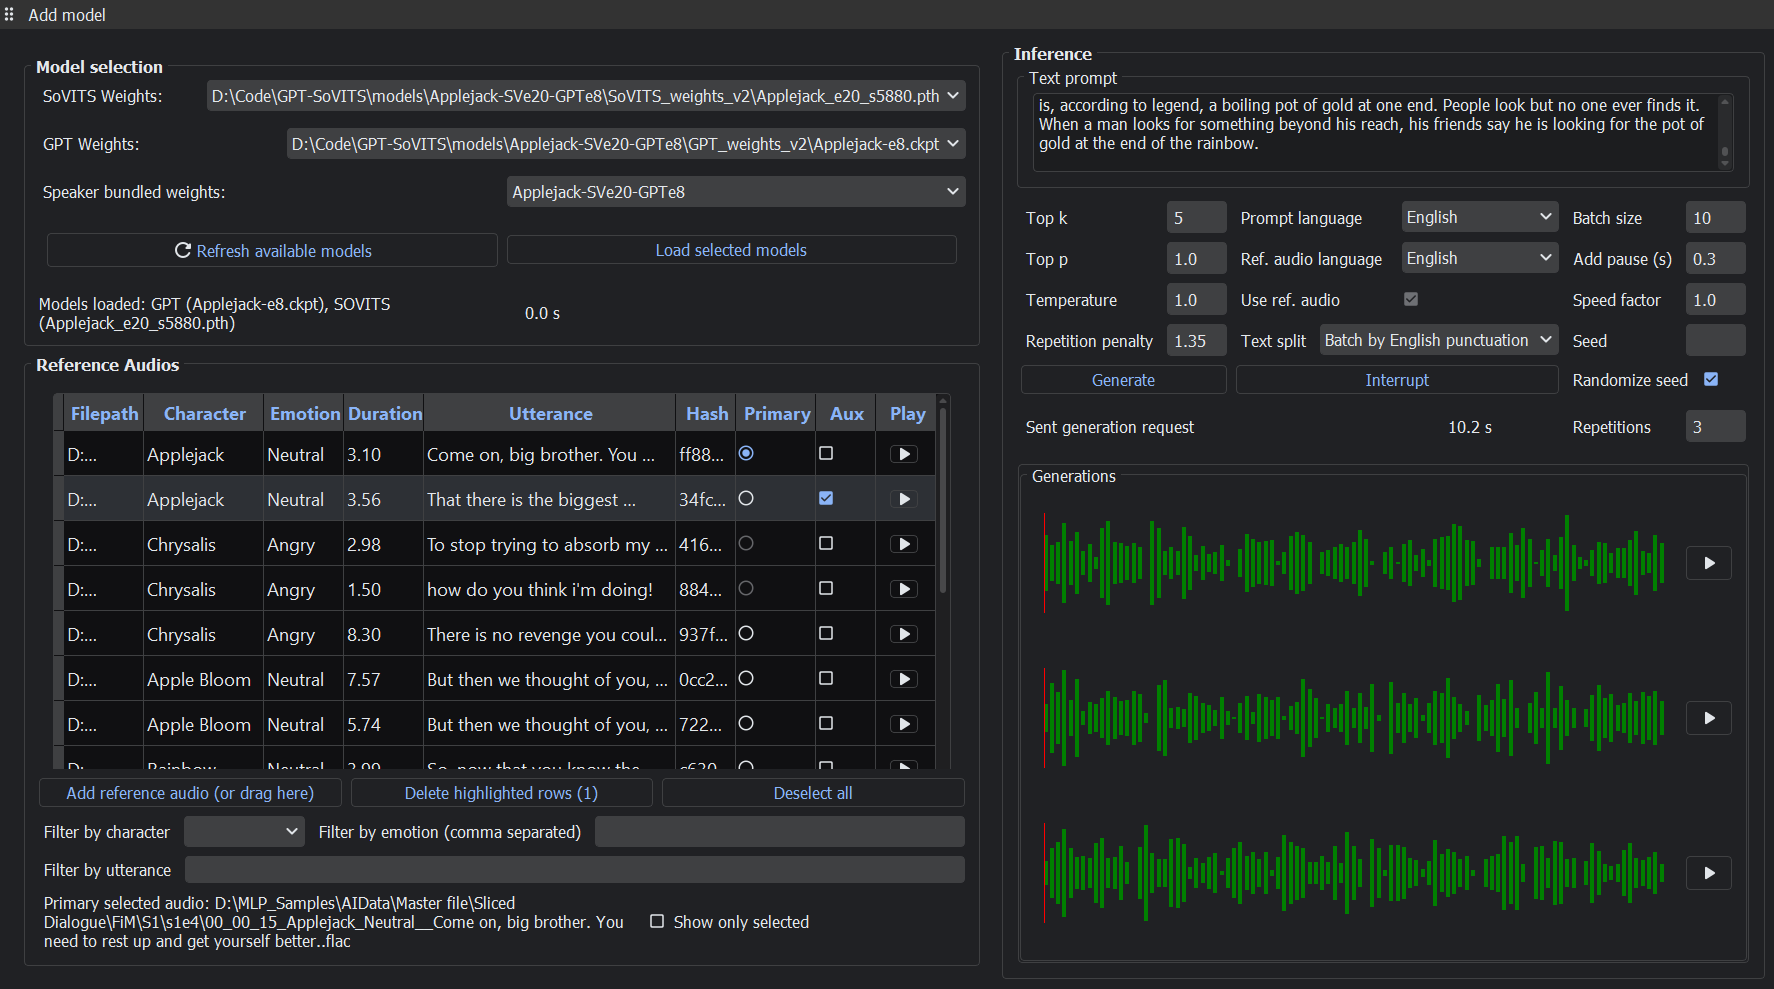
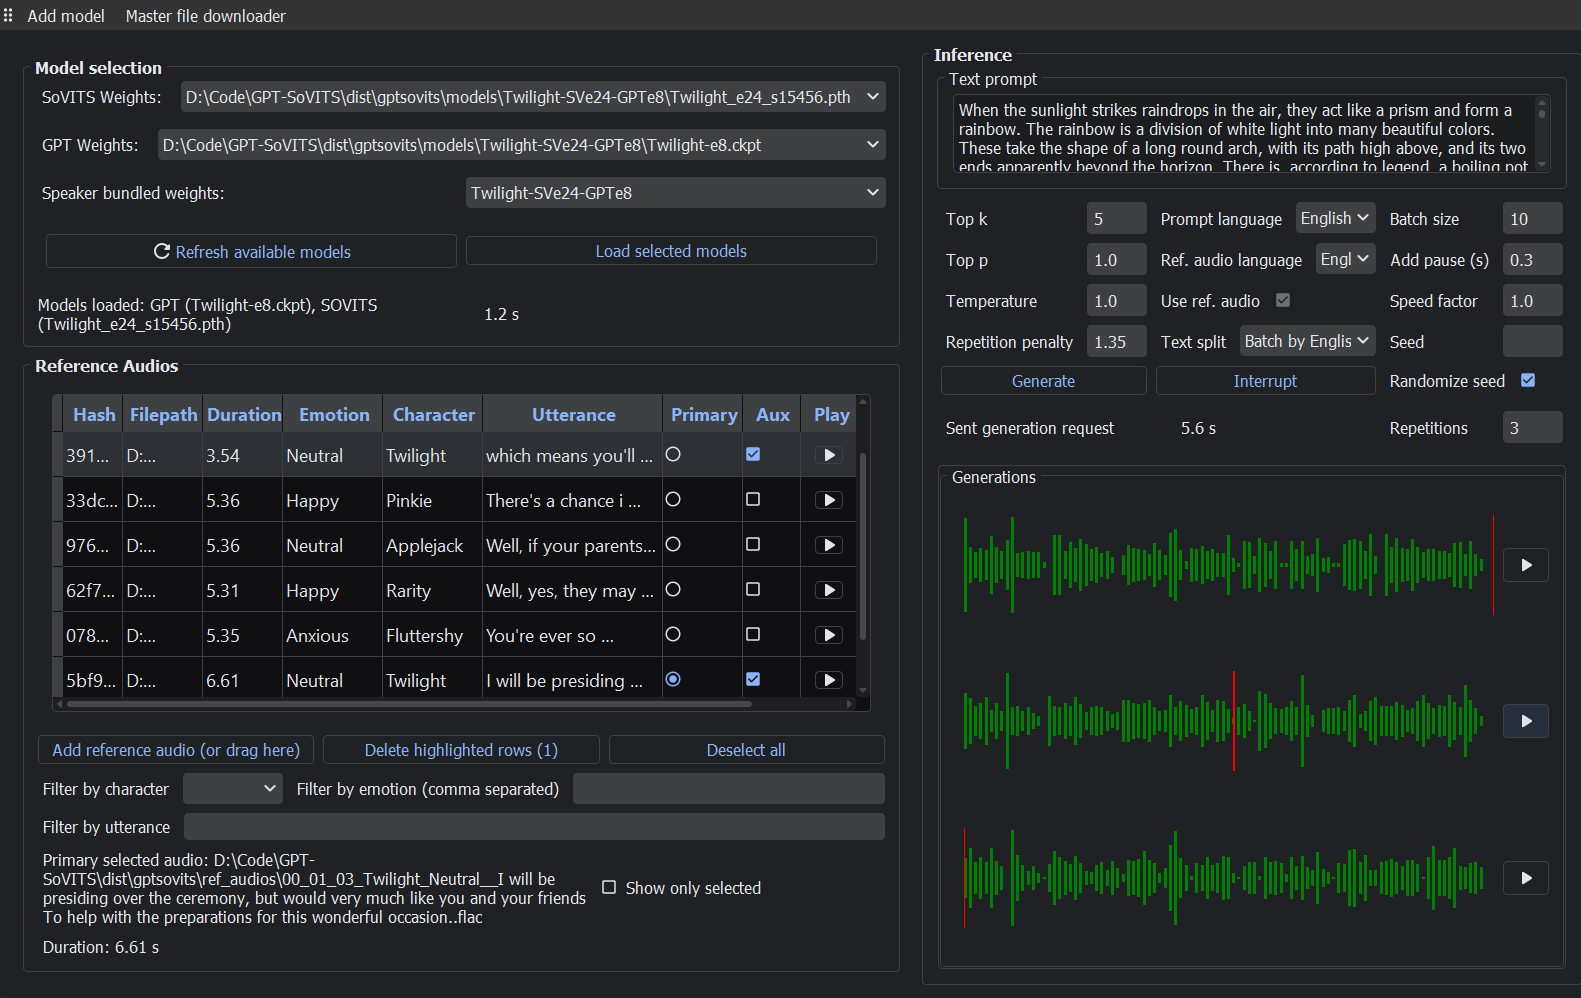
Update screenshots and readme info on downloader

diff --git a/README.md b/README.md
@@ -94,7 +94,7 @@ Under this section, you can select either individual weights or speaker-bundled 
 - You can refresh the lists of available models from your filesystem by clicking `Refresh available models`.
 
 ### Reference audios
-GPT-SoVITS accepts reference audio clips which can be used to control the intonation and timbre of the resulting generated speech. The Reference Audios section allows for the inputting, labeling, organization, and selection of reference audio for your generations.
+GPT-SoVITS accepts reference audio clips which can be used to control the intonation and timbre of the resulting generated speech. The Reference Audios section allows for the inputting, labeling, organization, and selection of reference audio for your generations. If you wish to download reference audio clips from Clipper's Master File, click the `Master file downloader` option at the top of the screen (see section `Master File Downloader` for more info)
 
 ![Reference audios](/../standalone_gui/docs/screenshots/refaudios.png)
 
@@ -117,6 +117,14 @@ The words to be spoken can be filled out under **Text prompt**. When ready to su
   * Setting a fixed seed for multiple repetitions is pointless (they will all be the same).
 - A notable parameter for controlling memory usage is **batch size**. Higher batch sizes will result in higher maximum memory usage.
   * GPT-SoVITS only uses as many batches as it needs--so with a small number of batches and a low number of repetitions, your memory usage may not reflect the maximum amount of memory usage possible for a particular batch size.
+
+### Master file downloader
+The Master file downloader offers a basic interface to search and download reference audio files from Clipper's Master File. To do this it must first build an index of the available files; depending on network speed this can take anywhere from 20 seconds to multiple minutes.
+
+![Master file downloader](/../standalone_gui/docs/screenshots/masterfile.png)
+
+The `Glob search` field accepts glob-style filename patterns, i.e. `*_Rarity_*`. `Sort`
+allows you to sort by file length. `Rebuild master file index` can be used to rebuild the index, which can be useful if the Master File is updated in the future.
 
 # Building
 A conda environment appropriately set up to run the client, plus pyinstaller, on Windows, should allow you to run `pyinstaller gptsovits_client.spec` which should reproduce the pyinstaller (minus bundled reference audios and models).
